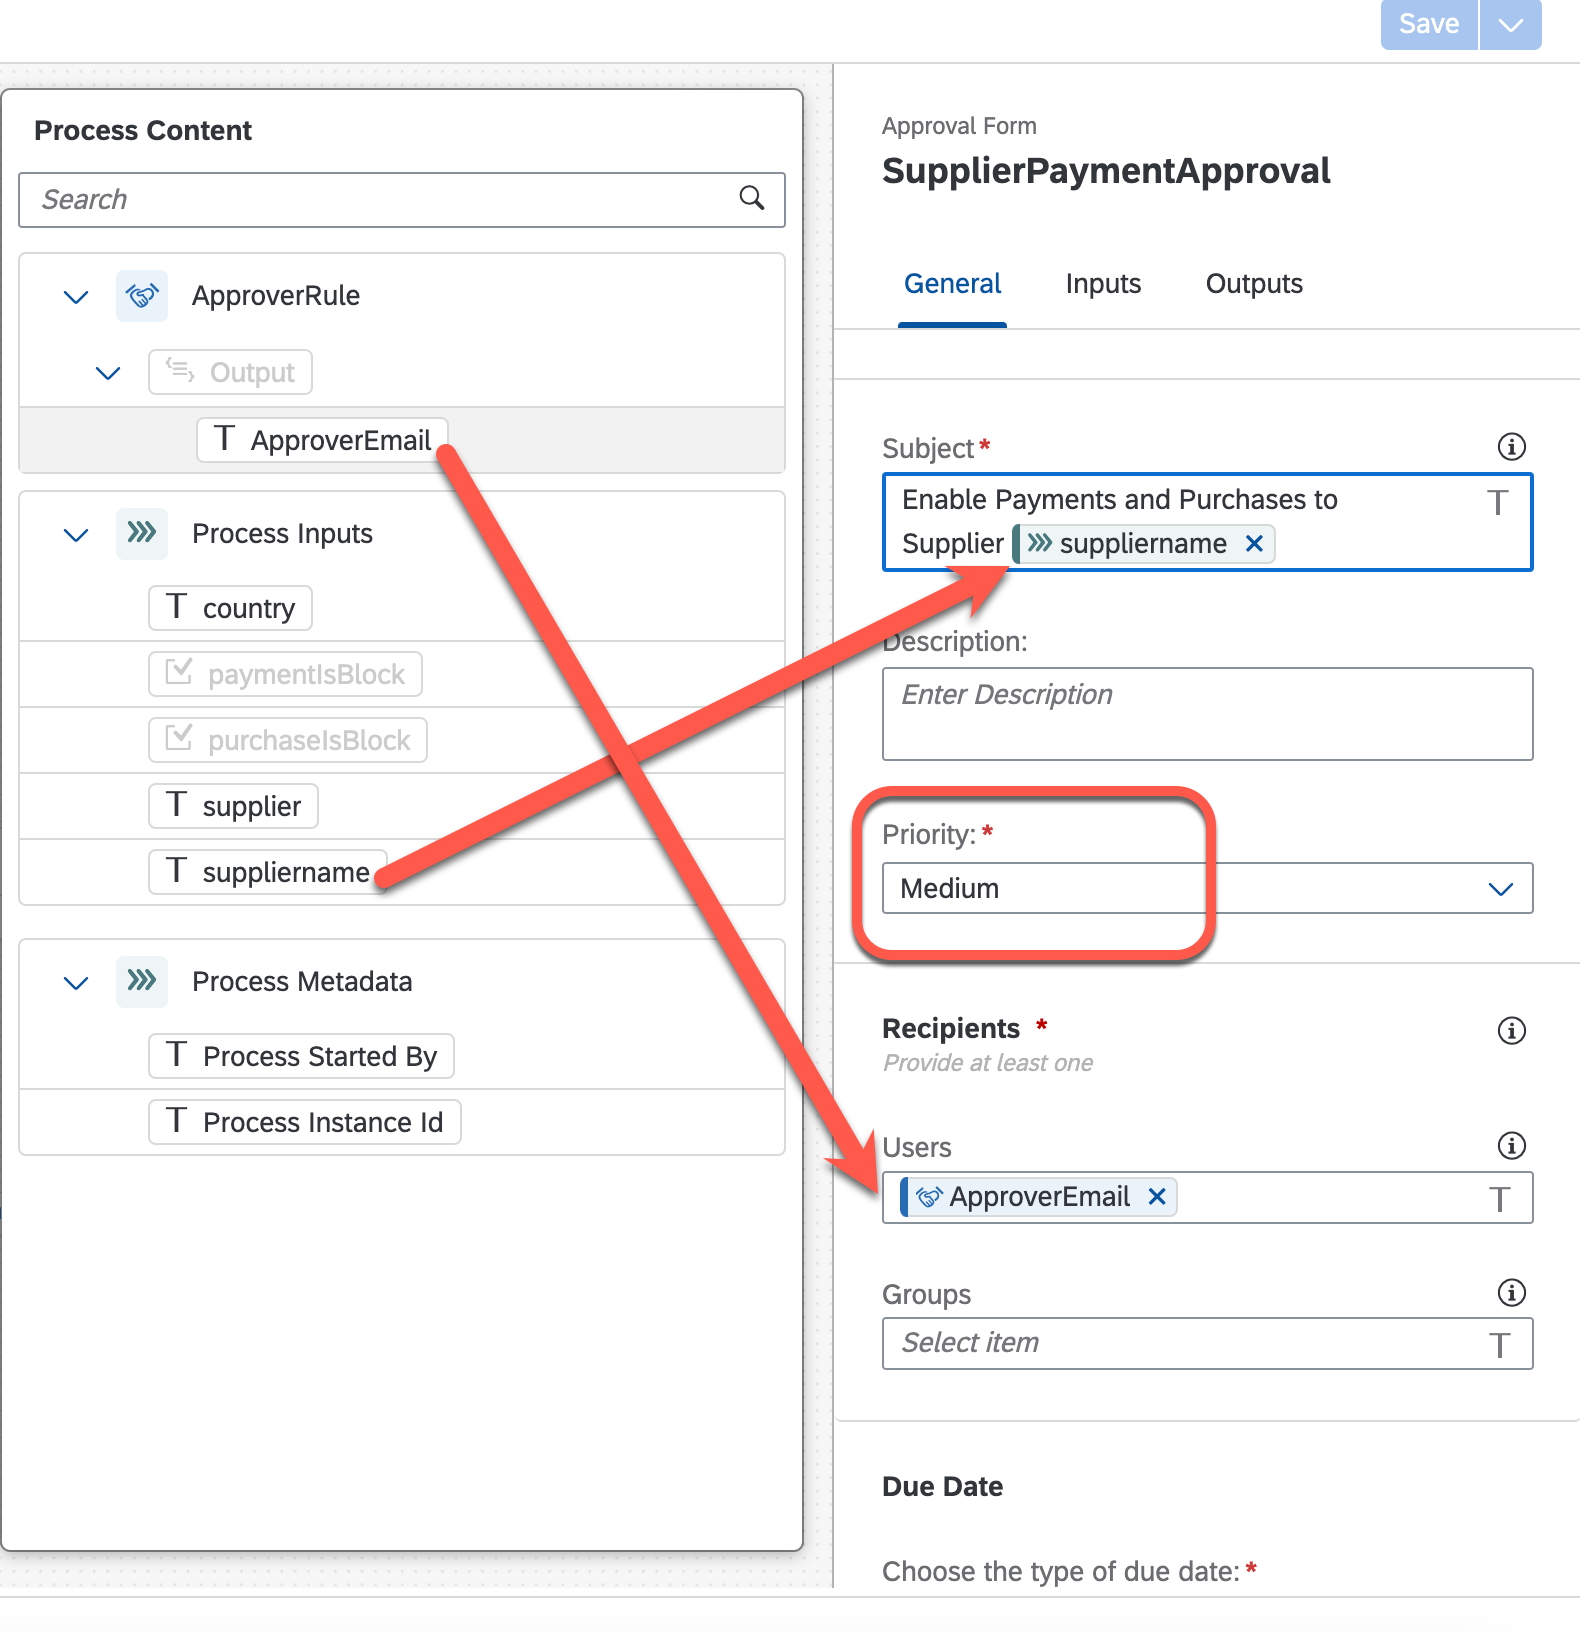
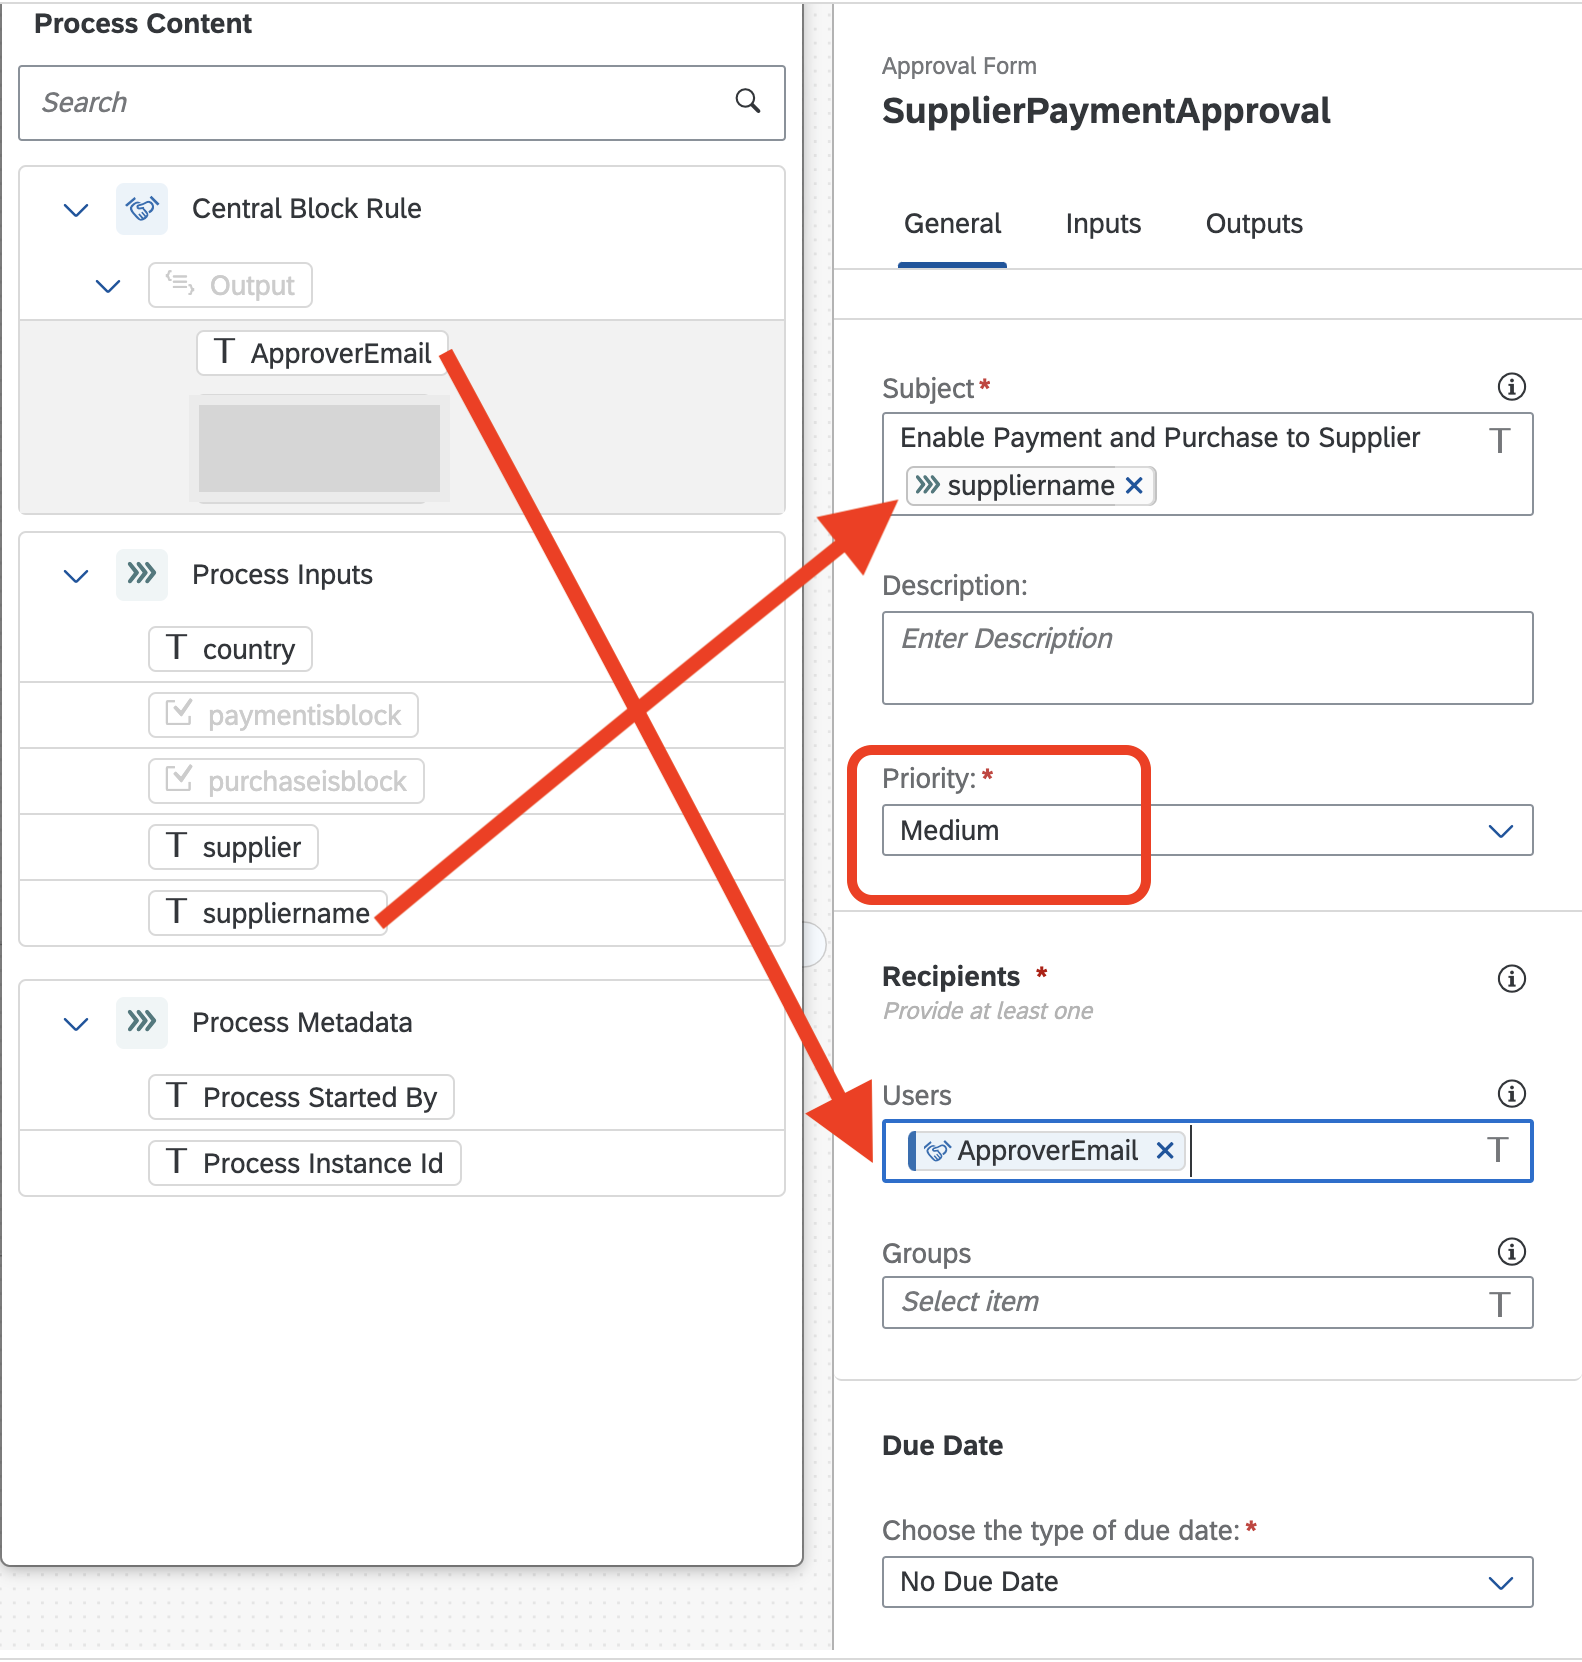
Fixes for SPA Mission github issues

diff --git a/documentation/develop/create-business-process-flow-s4onboard/README.md b/documentation/develop/create-business-process-flow-s4onboard/README.md
@@ -192,7 +192,7 @@ A process condition routes the business process based on certain criteria. These
 
     ![spa process](./images/spa-process-decision.png)
 
-4. In the **Central Block Rule** decison form, Choose **Inputs** tab and bind the below items.
+4. In the **Central Block Rule** decision form, Choose **Inputs** tab and bind the below items.
 
     - In the **Country** field, choose **Country** from **Supplier Request Form (Trigger)**.
 
@@ -206,7 +206,7 @@ A process condition routes the business process based on certain criteria. These
 
     ![spa process](./images/spa-process-approval-input-end.png)
 
-7. In the **Supplier Approval** approval form, Choose **General** tab tab and bind the below items.
+7. In the **Supplier Approval** approval form, Choose **General** tab and bind the below items.
 
     - In the **Subject** field, enter **Review for Supplier** and choose **Supplier Name** from **Supplier Request Form(Trigger)**.
     - In the **Priority** field, choose **Medium**.
@@ -257,7 +257,7 @@ A process condition routes the business process based on certain criteria. These
 
     ![spa process](./images/spa-process-aaction-lib-bppost-input-role.png)
 
-14. In branch of the action **Create a new business partner record** module, choose **+**. Then, choose **Actions** > **Browse library** > **Update Suplier General Data**.
+14. In branch of the action **Create a new business partner record** module, choose **+**. Then, choose **Actions** > **Browse library** > **Update Supplier General Data**.
 
     ![spa process](./images/spa-process-action-lib-supplier-patch.png)
  
@@ -266,20 +266,20 @@ A process condition routes the business process based on certain criteria. These
 
     ![spa process](./images/spa-process-action-lib-supplier-general.png)
 
-16. In the action **Update Suplier General Data**, choose **Input**.
+16. In the action **Update Supplier General Data**, choose **Input**.
     - In the **Supplier** field, choose **BusinessPartner** of actions **create a new business partner record**.
-    - In the **PaymentBlockedForSupplier**, choose **BusinessPartnerIsBlocked** of actions **create a new business partner record**.
-    - In the **PurchasingIsBlocked**, choose **BusinessPartnerIsBlocked** of actions **create a new business partner record**.
+    - In the **PaymentBlockedForSupplier**, choose **BusinessPartnerIsBlocked** from **Central Block Rule**
+    - In the **PurchasingIsBlocked**, choose **BusinessPartnerIsBlocked** from **Central Block Rule**
 
     > In updated api spec, updated name of PaymentBlockedForSupplier is **Payment block**, PurchasingIsBlocked is **Purch. Block** and BusinessPartnerIsBlocked is **Central Block**
 
     ![spa process](./images/spa-process-action-lib-supplier-input.png)
 
-17. In the action **Update Suplier General Data** module, choose **+** sign > **Forms** > **Supplier Cofirmation**.
+17. In the action **Update Supplier General Data** module, choose **+** sign > **Forms** > **Supplier Confirmation**.
 
     ![spa process](./images/spa-process-action-lib-supplier-conf.png)
 
-18. In the form **Supplier Cofirmation** module ,choose **General** and bind the below items.
+18. In the form **Supplier Confirmation** module ,choose **General** and bind the below items.
 
     - In the **Subject** box:
         - enter **New Supplier**
@@ -291,7 +291,7 @@ A process condition routes the business process based on certain criteria. These
 
     ![spa process](./images/spa-process-aaction-lib-supplier-conf-input.png)
 
-19. In the form **Supplier Cofirmation** module ,choose **Inputs** and bind the below items.
+19. In the form **Supplier Confirmation** module ,choose **Inputs** and bind the below items.
 
     - In the **Central Block** field, choose **BusinessPartnerIsBlocked** of actions **create a new business partner record**.
       > just to note that in updated api specification BusinessPartnerIsBlocked is renamed as **CentralBlock**.
@@ -320,11 +320,17 @@ To run the process you have to first release and then deploy the business proces
 
 1. Choose **Release**.
 
-2.  In the **Release Project** dialog box, do the following:
-    - In the **Version**, choose **Contains only patches**.
-    - Choose **Release**.
+   - For new release, choose **Release** leaving the **Version Number** unchanged.
 
-        ![spa process](./images/spa-release.png)
+   ![spa new release](./images/spa-new-release.png)
+
+   - For releasing it from second time and so on.., do the following:
+
+     1. In the **Version**, choose **Contains only Patches**.
+
+     2. Choose **Release**.
+   
+   ![spa business create](./images/spa-release-patches.png)
 
 ## 9. Deploy Business Process
 

diff --git a/documentation/deploy/setup-mock/README.md b/documentation/deploy/setup-mock/README.md
@@ -33,19 +33,48 @@ To deploy the mock server application it's necessary to have a Cloud Foundry run
 
 ## Quick deploy in Cloud Foundry Environment
 
-1. Clone this repository to your SAP Business Application Studio workspace
-2. Open cloned project folder
-3. Right click on *mta.yaml* file and select **Build MTA Project**. The will generate an .MTAR file in mta_archives folder.
-4. After build is done right click on mta_archives/Mockserver_1.0.0.mtar and select **Deploy MTA Archive**
+1. Open the SAP Business Application Studio and create a new **Dev Space** using the **Full Stack Cloud Application** type
+
+    ![mock server setup](./images/mock_server_1.png)
+
+2. In the menu select Terminal  &rarr;  New Terminal. In the terminal go to the projects folder
+
+   ```bash
+      cd projects
+   ```
+
+3. Clone the mock server GitHub repository:
+
+   ```bash
+      git clone -b mock https://github.com/SAP-samples/cloud-extension-ecc-business-process.git
+   ``` 
+4. Choose File in the menu on the top and then select Open Workspace from the dropdown menu.
+
+4. Open the project by choosing projects > cloud-extension-ecc-business-process and choose Open.
+
+6. In the project folder right-click on the `mta.yaml` file and select **Build MTA Project**.
+
+   ![mock server setup](./images/mock_server_2.png)
+
+7. When the build was successful, you will see a new folder **mta_archives** in your project with the **Mockserver_1.0.0.mtar** file. Right-click on that file and select **Deploy MTA Archive**.
+
+   ![mock server setup](./images/mock_server_3.png)
+
     - You probably will be asked about Cloud Foundry login. Follow the instructions on the screen to enter you CF Endpoint and credentials. On the latest step you will choose your target CF Organization and CF Space.
-5. \[OPTIONAL\] If you already have some Event Mesh instance you can bind it from terminal after the deployment is successfully done:
+8. \[OPTIONAL\] If you already have some Event Mesh instance you can bind it from terminal after the deployment is successfully done:
+
     - Open new terminal window with Ctrl+`
+    
     - Enter the following command:
     <code>cf bs mock-srv BusinessPartnerValidation-ems && cf restart mock-srv</code>
     - NOTE: in the example above the name of Event Mesh service instance is BusinessPartnerValidation-ems. It can be different in your case!
-6. \[OPTIONAL\] You can also create a destination to the newly deployed Mock Server Application. It's only relevant if you have a destination service instance created in your CF space.  Go to terminal and start the following command:
-    <code>bash create-destination.sh bupa BusinessPartnerValidation-dest</code>
+9. \[OPTIONAL\] You can also create a destination to the newly deployed Mock Server Application. It's only relevant if you have a destination service instance created in your CF space. 
+    - Go to terminal and start the following command:
+        ```
+        bash create-destination.sh bupa BusinessPartnerValidation-dest</code>
+        ```
     - NOTE: in the command above the destination name is "bupa". You can change it as you need.
+    
     - NOTE: in the command above the destination service instance is "BusinessPartnerValidation-dest". You can change it as you need.
 
 ## How to use

diff --git a/documentation/develop/create-business-process-flow-payment/README.md b/documentation/develop/create-business-process-flow-payment/README.md
@@ -149,9 +149,9 @@ Once the supplier has been verified by the BusinessParnerValidation application,
 
 10. In the **SupplierPaymentApproval** approval, choose **General** tab and Bind the below items.
 
-   - In the **Subject** field, enter **Enable Payment and Purchases to Supplier** and  Drag **suppliername** from **Process Inputs**
+   - In the **Subject** field, enter **Enable Payment and Purchase to Supplier** and  Drag **suppliername** from **Process Inputs**
    - In the **Priority** field, choose **Medium**.
-   - In the **Users** field, choose **ApproverEmail** from **ApproverRule**.
+   - In the **Users** field, choose **ApproverEmail** from **Central Block Rule**.
 
    ![spa business create](./images/process-approval-general.png)
    
@@ -200,11 +200,16 @@ Once the supplier has been verified by the BusinessParnerValidation application,
    
 1. Choose **Release**
 
-2. In the **Version**, choose **Contains only Patches**.
+   - For new release, choose **Release** leaving the **Version Number** unchanged.
 
-3. Choose **Release**.
-   > Note here that it will only come if the release is already created. For new release, just choose **Release**.
+   ![spa new release](./images/spa-new-release.png)
 
+   - For releasing it from second time and so on.., do the following:
+
+     1. In the **Version**, choose **Contains only Patches**.
+
+     2. Choose **Release**.
+   
    ![spa business create](./images/process_release.png)
 
 ## 7. Deploy the Process   

diff --git a/documentation/set-up/connectivity/README.md b/documentation/set-up/connectivity/README.md
@@ -33,7 +33,7 @@ In this section we set up the end-to-end communication between the SAP S/4HANA o
    4. *Subaccount User:* Name of the connection user - for testing you could use your SAP BTP account user, else you first have to create a specific connection user at your SAP BTP account.
    5. *Password:* Password of the connection user
    6. *Description:* Enter a meaningful description.
-   7. *Location ID*: Optional field: If you plan to connect more than one Cloud Connector to a subaccount, then you can mention a Location ID. See [Cloud Connector Configuration Help](https://help.sap.com/viewer/cca91383641e40ffbe03bdc78f00f681/Cloud/en-US/db9170a7d97610148537d5a84bf79ba2.html#loiodb9170a7d97610148537d5a84bf79ba2__configure_proxy) for more details.
+   7. *Location ID*: If you plan to connect more than one Cloud Connector to a subaccount, then you can mention a Location ID. See [Cloud Connector Configuration Help](https://help.sap.com/viewer/cca91383641e40ffbe03bdc78f00f681/Cloud/en-US/db9170a7d97610148537d5a84bf79ba2.html#loiodb9170a7d97610148537d5a84bf79ba2__configure_proxy) for more details.
    8. Click on Save
 
    ![Add Subaccount](./images/addSubAccount.png)
@@ -50,7 +50,7 @@ In this section we set up the end-to-end communication between the SAP S/4HANA o
 
     ![add system](./images/add-system1.png)
 
-    2. Select **HTTPS** &rarr; **next**.
+    2. Select **HTTP** &rarr; **next**.
 
     ![add system](./images/add-system2.png)
 

diff --git a/documentation/set-up/build/README.md b/documentation/set-up/build/README.md
@@ -99,15 +99,16 @@ You've now assigned this user to the role collection. The user has all of the au
     4. In the **Type** field, choose**HTTP**.
     5. Enter **Description**.
     6. In the **Proxy Type**, choose choose **Internet**
-    7. In the **URL** field, enter **<endpoints.api>** which you got from service key .
+    7. In the **URL** field, enter **<endpoints.api>** as a URL which you got from Service key **spa-service-key**, refer to the previous step for the Service key Information.
     8. In the **Authentication**, choose **OAuth2ClientCredentials**.
-    9. In the **Client ID** field, enter **uaa.clientid** which you got from service key.
+    9. In the **Client ID** field, enter **uaa.clientid** which you got from service key, refer to the previous step for the Service key Information.
     10. In the **Client Secret**, enter **uaa.clientsecret** which you got from service key.
-    11. In the **Token Service URL** field, enter **<endpoints.url which you got from service key>/oauth/token**.
+    11. In the **Token Service URL** field, enter **<endpoints.url>** as a URL which you got from service key **/oauth/token**, refer to the previous step for the Service key Information.
+    12. Choose **Save**.
 
     ![lunchpad1](./images/spa-dest.png)
 
-    12. Choose **Check Connection**
+    13. Choose **Check Connection**
 
     ![lunchpad1](./images/spa-conn.png)
 

diff --git a/documentation/prepare/mission-prerequisites/README.md b/documentation/prepare/mission-prerequisites/README.md
@@ -34,7 +34,7 @@ The application requires the following [Entitlements and Quotas](https://help.sa
 | Cloud Foundry Runtime             | MEMORY     |          2          |
 | Event Mesh                        | default    |          1          |
 | Destination Service               | lite       |          1          |
-| Connectivity Service              | proxy      |          1          |
+| Connectivity Service              | lite       |          1          |
 | SAP Build Work Zone, standard edition | standard (Application) |  Subscription |
 | SAP Build Process Automation      | standard   |          1          |
 | SAP Build Process Automation      | standard (Application) |  Subscription |
